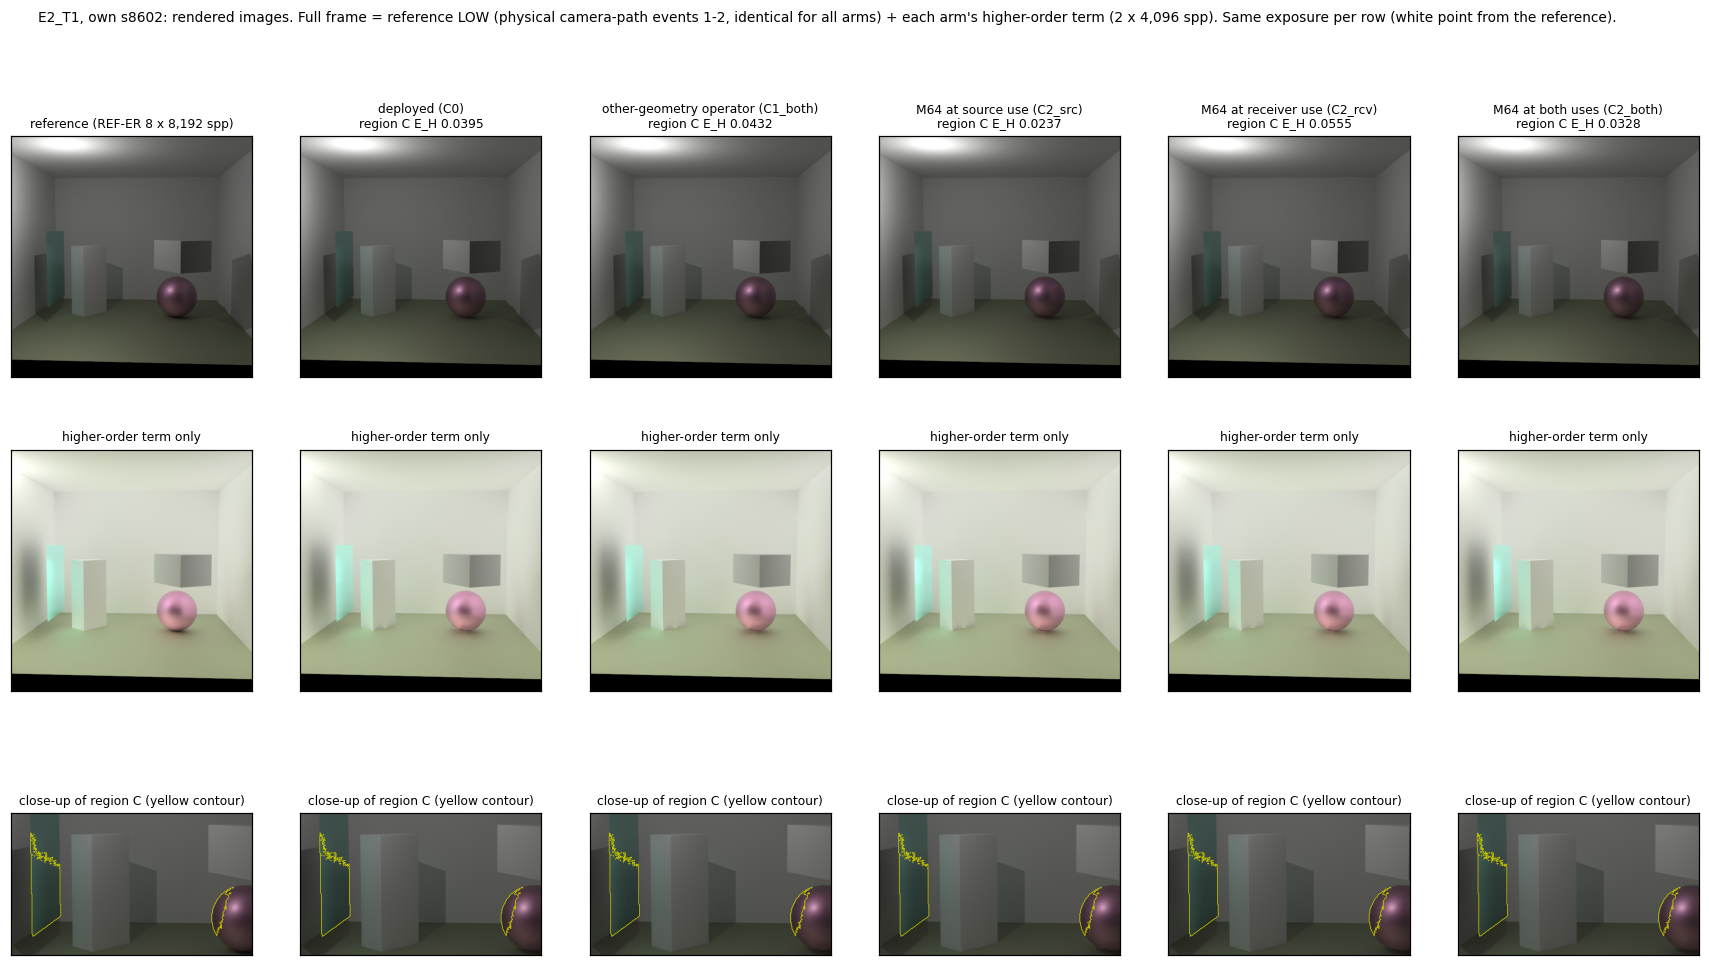
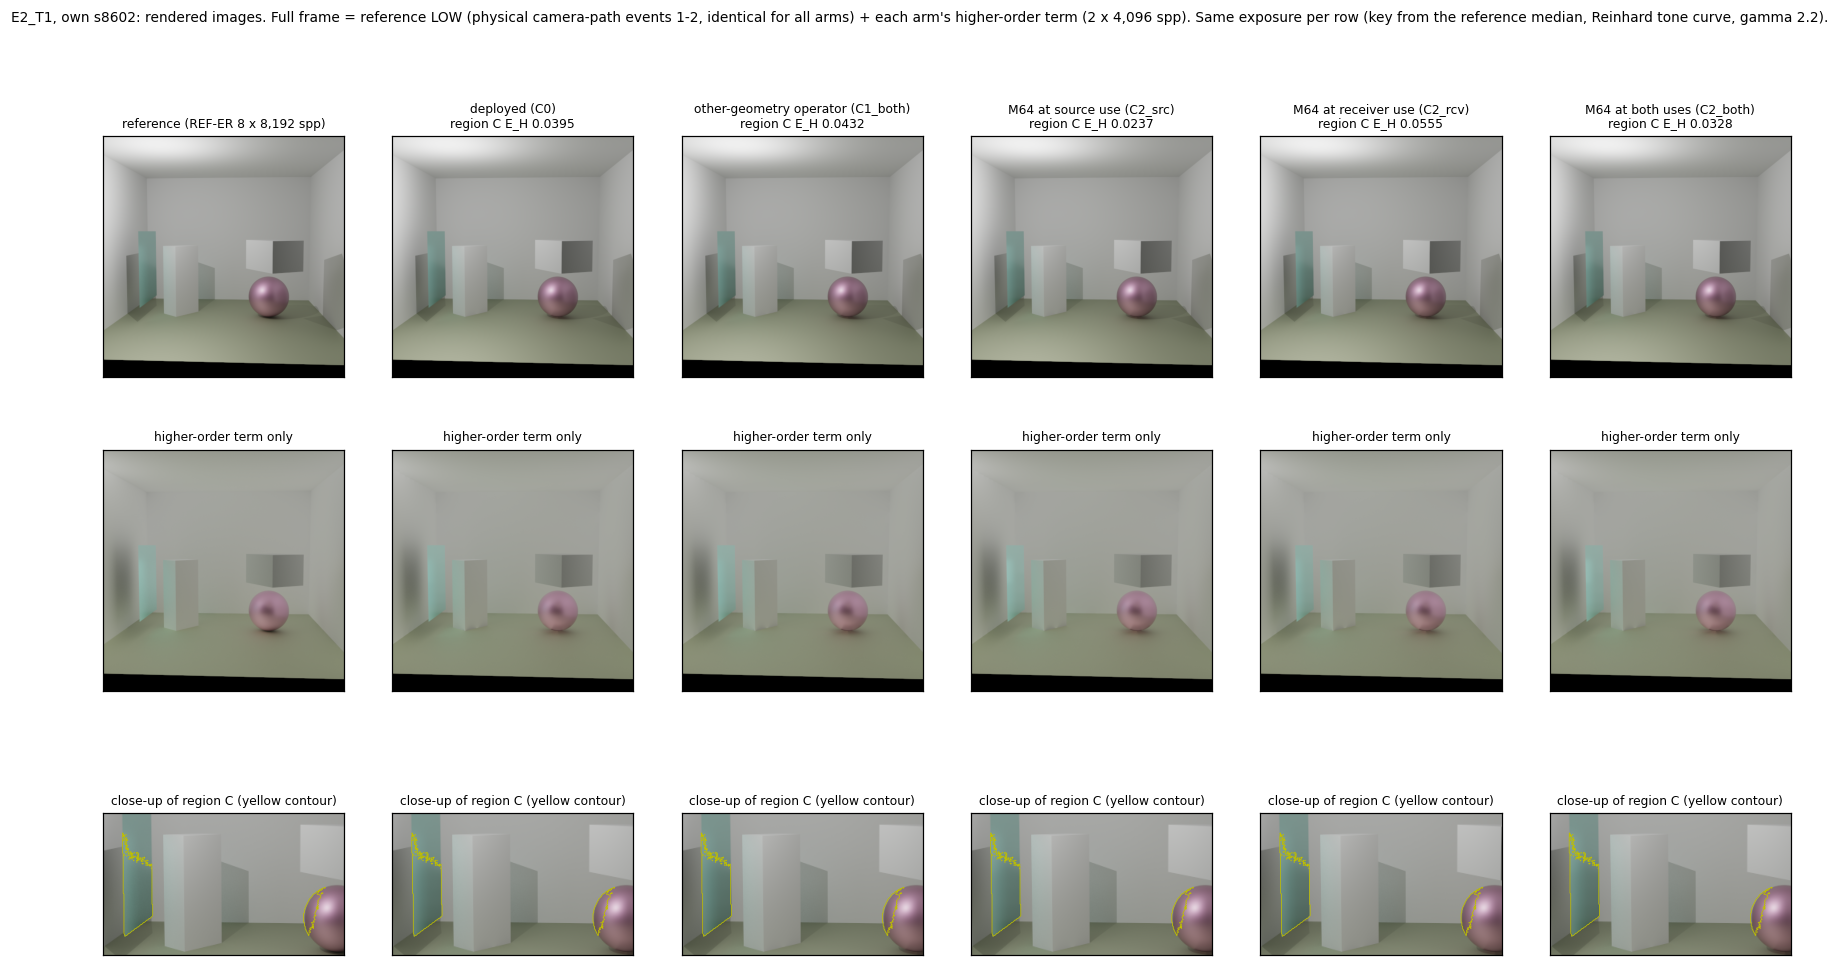
WL93D visuals: re-tone-map rendered panels (exposure keyed to the reference median + Reinhard; the p99.5 white point was dominated by the ceiling hotspot and rendered every image too dark)

diff --git a/experiments/ecro_local93d/vizrender93d.py b/experiments/ecro_local93d/vizrender93d.py
@@ -1,7 +1,7 @@
 """WL93D rendered-image visuals (post-run, presentation only; no new renders): reference vs intervention arms.
   python vizrender93d.py <R> <R86> <R92A> <R92B> <out>
 Full frame of an arm = reference LOW (physical camera-path events 1-2, identical for every arm: REF tot - REF h) + the arm's rendered
-higher-order term hl (2 x 4,096 spp). One exposure / tone map per figure, set from the reference."""
+higher-order term hl (2 x 4,096 spp). One exposure per row, keyed to the reference median, Reinhard tone curve (an earlier white-point-at-p99.5 version was dominated by the ceiling hotspot and rendered too dark)."""
 import glob, hashlib, json, os, sys
 import numpy as np
 import matplotlib
@@ -16,8 +16,10 @@ import analyze86 as A  # noqa: E402
 ARMS = [('C0', 'deployed (C0)'), ('C1_both', 'other-geometry operator (C1_both)'), ('C2_src', 'M64 at source use (C2_src)'), ('C2_rcv', 'M64 at receiver use (C2_rcv)'), ('C2_both', 'M64 at both uses (C2_both)')]
 
 
-def tm(x, white):
-    return np.clip(x / white, 0, 1) ** (1 / 2.2)
+def tm(x, key):
+    """exposure from the reference median (median -> 0.5 before the curve), Reinhard x / (1 + x), display gamma 2.2."""
+    y = x * key
+    return np.clip(y / (1 + y), 0, 1) ** (1 / 2.2)
 
 
 def main():
@@ -41,7 +43,7 @@ def main():
                     imgs.append((arm, lab, x['hl'].mean(0)))
             if not imgs:
                 continue
-            white = float(np.quantile(tot, 0.995)); whiteh = float(np.quantile(h, 0.995))
+            white = 0.5 / float(np.median(tot.mean(-1)[tot.mean(-1) > 0])); whiteh = 0.5 / float(np.median(h.mean(-1)[h.mean(-1) > 0]))
             n = len(imgs) + 1
             fig, ax = plt.subplots(3, n, figsize=(3.3 * n, 10.5))
             cols = [('reference (REF-ER 8 x 8,192 spp)', tot, h)] + [(lab, low + x, x) for arm, lab, x in imgs]
@@ -54,7 +56,7 @@ def main():
             for a_ in ax.ravel():
                 a_.set_xticks([]); a_.set_yticks([])
             fig.suptitle(f'{tag}, {fam} s{sd}: rendered images. Full frame = reference LOW (physical camera-path events 1-2, identical for all arms) '
-                         f'+ each arm\'s higher-order term (2 x 4,096 spp). Same exposure per row (white point from the reference).', fontsize=9)
+                         f'+ each arm\'s higher-order term (2 x 4,096 spp). Same exposure per row (key from the reference median, Reinhard tone curve, gamma 2.2).', fontsize=9)
             fn = f'fig6_{tag}_{fam}_s{sd}_rendered.png'
             fig.savefig(os.path.join(out, fn), dpi=110, bbox_inches='tight'); plt.close(fig); made.append(fn)
     mf = os.path.join(out, 'manifest.json'); man = json.load(open(mf))
